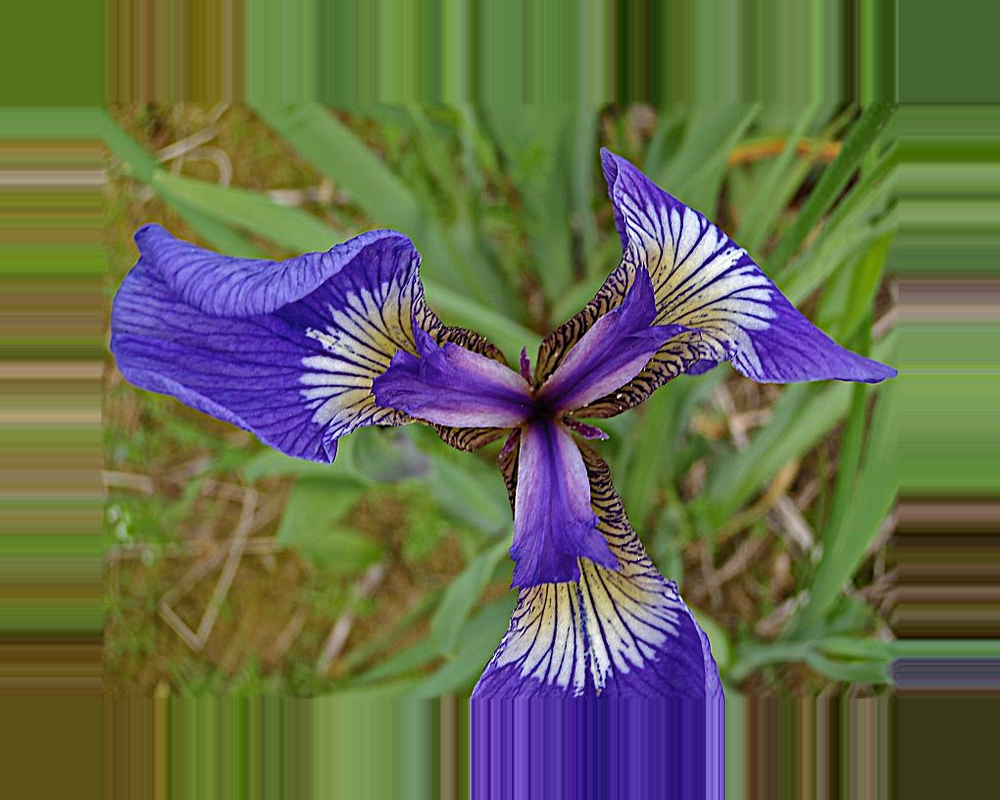
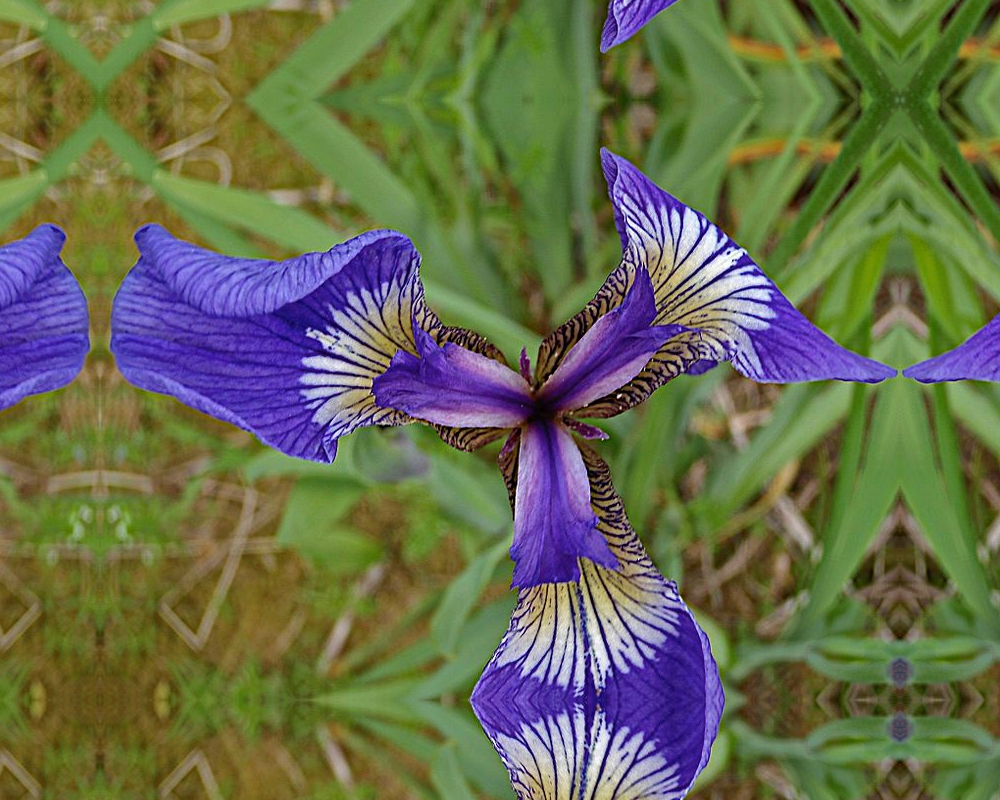
fix

Changed region(s): [[0.0, 0.0, 1.0, 1.0]]

diff --git a/assignment_2/main.py b/assignment_2/main.py
@@ -3,7 +3,7 @@ import numpy as np
 img1 = cv2.imread("iris-1.png")
 
 def padding(image, border_width):
-    return cv2.copyMakeBorder(image, border_width, border_width, border_width, border_width, cv2.BORDER_REPLICATE)
+    return cv2.copyMakeBorder(image, border_width, border_width, border_width, border_width, cv2.BORDER_REFLECT)
 
 def cropping(image, x_0, x_1, y_0, y_1):
     return image[x_0:x_1, y_0:y_1]
@@ -50,7 +50,10 @@ cv2.imwrite('iris-1-padded.png', padding(img1, 100))
 
 #2 Cropping
 image_shape = img1.shape
-cv2.imwrite('iris-1-cropped.png', cropping(img1, image_shape[0]-200, image_shape[0]-130, image_shape[1]-200, image_shape[1]-130))
+print(image_shape[0])
+print(image_shape[1])
+print(image_shape[2])
+cv2.imwrite('iris-1-cropped.png', cropping(img1, 200, image_shape[0]-130, 200, image_shape[1]-130))
 
 #3 Resizing
 cv2.imwrite('iris-1-resized.png', rezise(img1, 200, 200))
